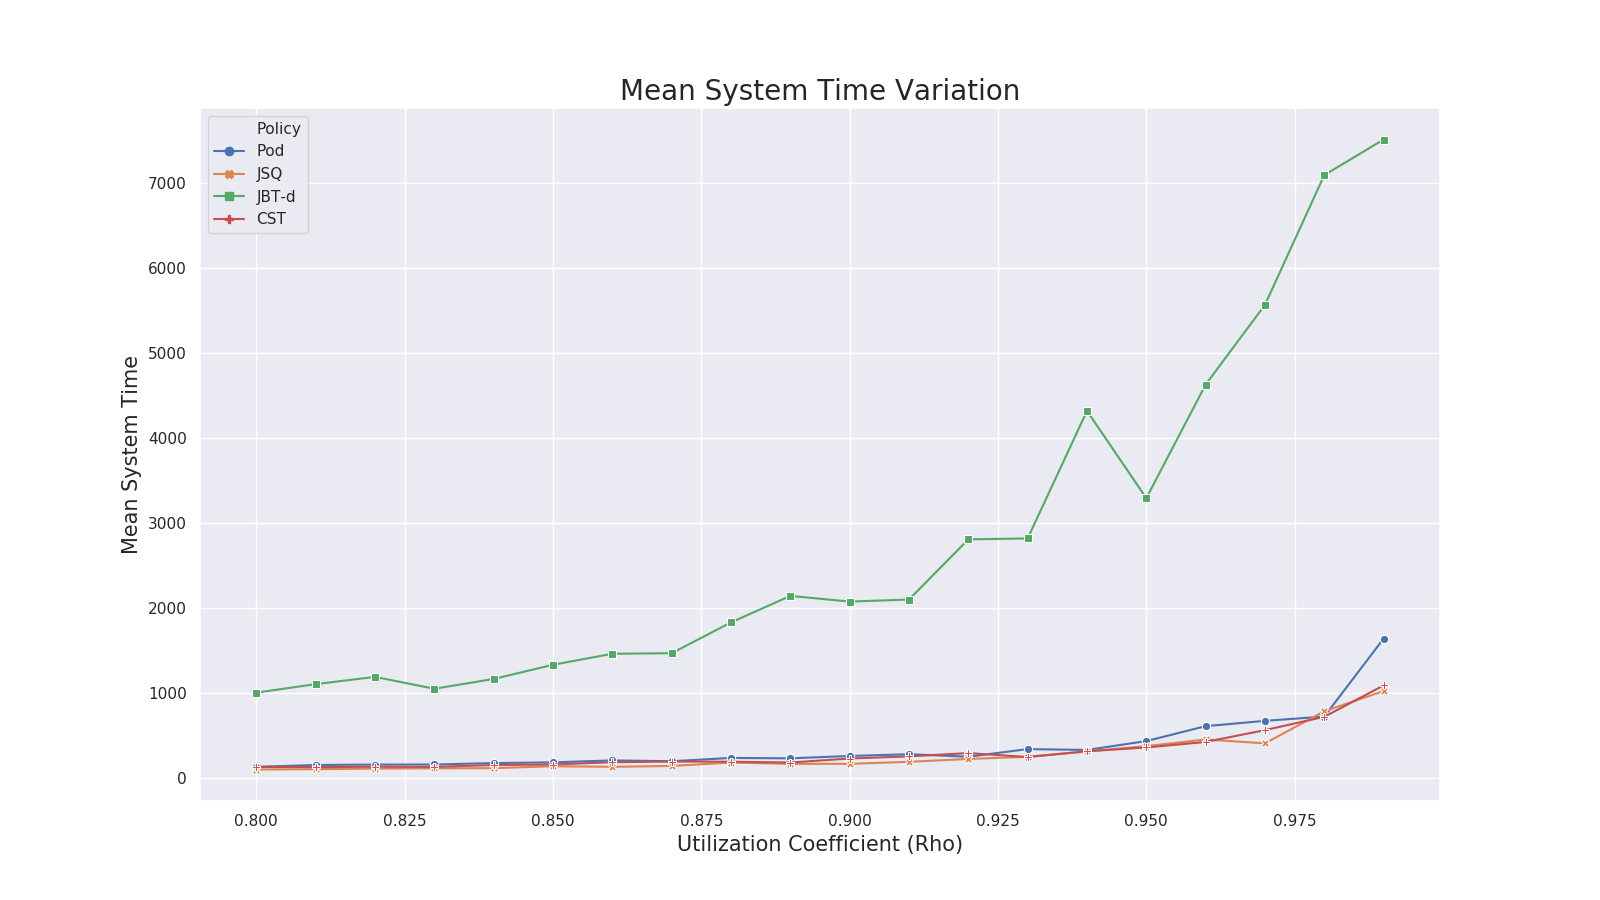
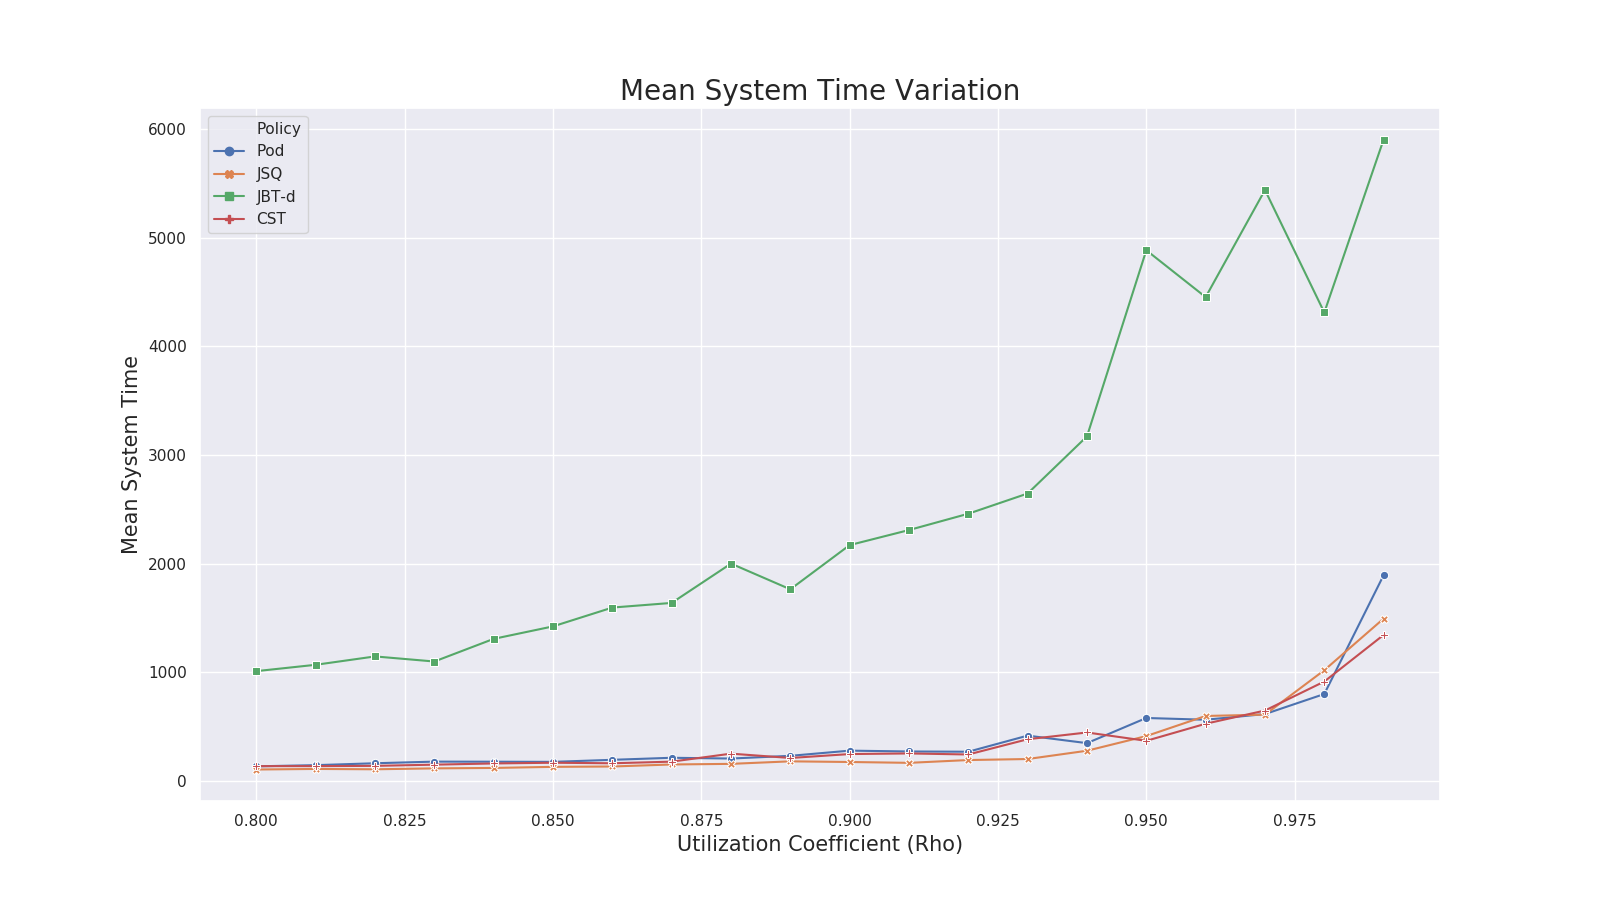
Update servers queue implementation.
Now each server in the dispatcher contains a list of tasks (durations).

diff --git a/Dispatcher.py b/Dispatcher.py
@@ -2,6 +2,7 @@ import random
 import math
 import simulation_utils as su
 from numpy.random import weibull
+import matplotlib.pyplot as plt
 
 
 class Dispatcher:
@@ -12,7 +13,7 @@ class Dispatcher:
     y = 10
     t_0 = 1
     alpha = 0.5
-    t = 1000*t_0
+    t = 100*t_0
 
     def __init__(self, number_of_tasks: int,
                  number_of_servers: int,
@@ -20,7 +21,7 @@ class Dispatcher:
                  jbt=False, custom=False):
         self.number_of_tasks = number_of_tasks
         self.number_of_servers = number_of_servers
-        self.servers = {i: 0 for i in range(number_of_servers)}
+        self.servers = {i: [0] for i in range(number_of_servers)}
         self.rho = rho
         self.d = d
         self.tasks_timeline = []
@@ -31,6 +32,7 @@ class Dispatcher:
         self.overhead = 0
         self.jbt = jbt
         self.custom = custom
+        self.rs = []
 
     def get_tasks_timeline(self):
         return self.tasks_timeline
@@ -65,16 +67,29 @@ class Dispatcher:
         ids = random.sample(server_ids, n_servers)
         return ids
 
-    def pick_best_server(self, server_ids, n_servers):
+    def compute_number_active_tasks(self, time, server_id):
+        count = 0
+        tasks = self.servers[server_id]
+        for task in tasks:
+            if task > time:
+                count += 1
+            else:
+                self.servers[server_id].remove(task)
+            if len(tasks) == 0:
+                self.servers[server_id].append(0)
+        return count
+
+    def pick_best_server(self, server_ids, n_servers, time):
         servers_ids = self.pick_random_servers(server_ids, n_servers)
 
         best_server = servers_ids[0]
-        min_time = self.servers[servers_ids[0]]
+
+        min_n_tasks = self.compute_number_active_tasks(time, servers_ids[0])
 
         for id in servers_ids[1:]:
-            current_time = self.servers[id]
-            if current_time < min_time:
-                min_time = current_time
+            current_n_tasks = self.compute_number_active_tasks(time, id)
+            if current_n_tasks < min_n_tasks:
+                min_n_tasks = current_n_tasks
                 best_server = id
 
         return best_server
@@ -91,13 +106,16 @@ class Dispatcher:
             task = self.generate_task()
 
         self.process_times.append(task)
-        server_time = self.servers[server_id]
+        try:
+            server_time = self.servers[server_id][-1]
+        except:
+            server_time = 0
 
         if server_time > time:
             task_finish_time = server_time + task
         else:
             task_finish_time = time + task
-        self.servers[server_id] = task_finish_time
+        self.servers[server_id].append(task_finish_time)
 
         system_time = task_finish_time - time
         self.system_times.append(system_time)
@@ -113,16 +131,19 @@ class Dispatcher:
             # and use the server with lower threshold to assign the task
             if time > t_units:
                 server_id = self.pick_best_server(
-                    self.servers.keys(), self.d)
-                threshold = self.servers[server_id]
+                    self.servers.keys(), self.d, time)
+                threshold = max(
+                    1, self.compute_number_active_tasks(time, server_id))
                 servers_below_threshold = []
                 # search for all the servers below threshold
-                for id, queue_len in self.servers.items():
+                for id in self.servers:
+                    queue_len = self.compute_number_active_tasks(time, id)
                     if queue_len < threshold:
                         servers_below_threshold.append(id)
                 n_servers = min(self.d, len(servers_below_threshold))
                 overhead_temp += self.number_of_servers
                 t_units += self.t
+                self.rs.append(threshold)
 
             # else, choose a random server from the ones below threshold
             # or eventually from all the servers and assign the task
@@ -142,44 +163,44 @@ class Dispatcher:
                 continue
         self.overhead /= self.number_of_tasks
 
-    def rotate_servers(self, s_low, s_medium, s_high):
-        s_low_q = sum(self.servers[s] for s in s_low)/len(s_low)
-        s_med_q = sum(self.servers[s] for s in s_medium)/len(s_medium)
-        s_high_q = sum(self.servers[s] for s in s_high)/len(s_high)
-        queues = [s_low_q, s_med_q, s_high_q]
+    # def rotate_servers(self, s_low, s_medium, s_high):
+    #     s_low_q = sum(self.servers[s] for s in s_low)/len(s_low)
+    #     s_med_q = sum(self.servers[s] for s in s_medium)/len(s_medium)
+    #     s_high_q = sum(self.servers[s] for s in s_high)/len(s_high)
+    #     queues = [s_low_q, s_med_q, s_high_q]
 
-        min_q_index = queues.index(min(queues))
-        max_q_index = queues.index(max(queues))
+    #     min_q_index = queues.index(min(queues))
+    #     max_q_index = queues.index(max(queues))
 
-        return None
+    #     return None
 
-    def process_custom1(self):
-        t_units = 0
-        n_servers = self.number_of_servers//3
-        servers = list(self.servers.keys())
+    # def process_custom1(self):
+    #     t_units = 0
+    #     n_servers = self.number_of_servers//3
+    #     servers = list(self.servers.keys())
 
-        s_low = servers[:n_servers]
-        s_medium = servers[n_servers:(n_servers*2)]
-        s_high = servers[(n_servers*2):]
+    #     s_low = servers[:n_servers]
+    #     s_medium = servers[n_servers:(n_servers*2)]
+    #     s_high = servers[(n_servers*2):]
 
-        sl = (-math.exp(0.54)*(self.beta**self.alpha))**(1/self.alpha)
-        su = (-math.exp(0.85)*(self.beta**self.alpha))**(1/self.alpha)
+    #     sl = (-math.exp(0.54)*(self.beta**self.alpha))**(1/self.alpha)
+    #     su = (-math.exp(0.85)*(self.beta**self.alpha))**(1/self.alpha)
 
-        for time in self.tasks_timeline:
-            # if time > t_units:
-            #     self.rotate_servers(s_low, s_medium, s_high)
-            #     t_units += self.t
+    #     for time in self.tasks_timeline:
+    #         # if time > t_units:
+    #         #     self.rotate_servers(s_low, s_medium, s_high)
+    #         #     t_units += self.t
 
-            task = self.generate_task()
-            if task < sl:
-                server = self.pick_best_server(s_low, len(s_low))
-            elif task >= sl and task < su:
-                server = self.pick_best_server(s_medium, len(s_medium))
-            else:
-                server = self.pick_best_server(s_high, len(s_high))
-            self.assign_task(time, server, task)
+    #         task = self.generate_task()
+    #         if task < sl:
+    #             server = self.pick_best_server(s_low, len(s_low))
+    #         elif task >= sl and task < su:
+    #             server = self.pick_best_server(s_medium, len(s_medium))
+    #         else:
+    #             server = self.pick_best_server(s_high, len(s_high))
+    #         self.assign_task(time, server, task)
 
-        self.overhead = 0
+    #     self.overhead = 0
 
     def process_custom(self):
         servers = list(self.servers.keys())
@@ -233,7 +254,7 @@ class Dispatcher:
         else:
             for time in self.tasks_timeline:
                 server_id = self.pick_best_server(
-                    list(self.servers.keys()), self.d)
+                    list(self.servers.keys()), self.d, time)
                 self.assign_task(time, server_id)
             self.compute_overhead()
 
@@ -253,5 +274,9 @@ class Dispatcher:
         self.print_results(process_time_exp, mean_process_time,
                            interval_time_exp, mean_interval_time,
                            empirical_rho, mean_system_time)
+
+        if self.jbt and (self.rho > 0.989):
+            plt.plot(range(len(self.rs)), self.rs)
+            plt.show()
 
         return mean_system_time, self.overhead

diff --git a/main.py b/main.py
@@ -6,7 +6,7 @@ from time import time
 from simulation_utils import Simulator, plot
 
 
-number_of_tasks = (10**5)
+number_of_tasks = (10**4)
 number_of_servers = 20
 d = 3
 rho_values = np.arange(0.8, 1., 0.01)
@@ -86,21 +86,27 @@ if __name__ == "__main__":
             rho_values, n_proc, jbt=True)
 
         # Custom simulation
-        simulator = Simulator(number_of_tasks, number_of_servers, d)
-        mean_system_times_cst, overheads_cst = simulator.multiprocessing_simulation(
-            rho_values, n_proc, custom=True)
+        # simulator = Simulator(number_of_tasks, number_of_servers, d)
+        # mean_system_times_cst, overheads_cst = simulator.multiprocessing_simulation(
+        #     rho_values, n_proc, custom=True)
 
-        filename = 'weibull_test2_'
+        filename = 'weibull_new_'
 
     end = time()
     print("Simulation completed in", int(end-start), "seconds!\n\n")
 
+    # data = {
+    #     "Rho": rho_values,
+    #     "Pod": mean_system_times_pod,
+    #     "JSQ": mean_system_times_jsq,
+    #     "JBT-d": mean_system_times_jbt,
+    #     "CST": mean_system_times_cst
+    # }
     data = {
         "Rho": rho_values,
         "Pod": mean_system_times_pod,
         "JSQ": mean_system_times_jsq,
-        "JBT-d": mean_system_times_jbt,
-        "CST": mean_system_times_cst
+        "JBT-d": mean_system_times_jbt
     }
     df = pd.DataFrame.from_dict(data)
     ylabel = "Mean System Time"
